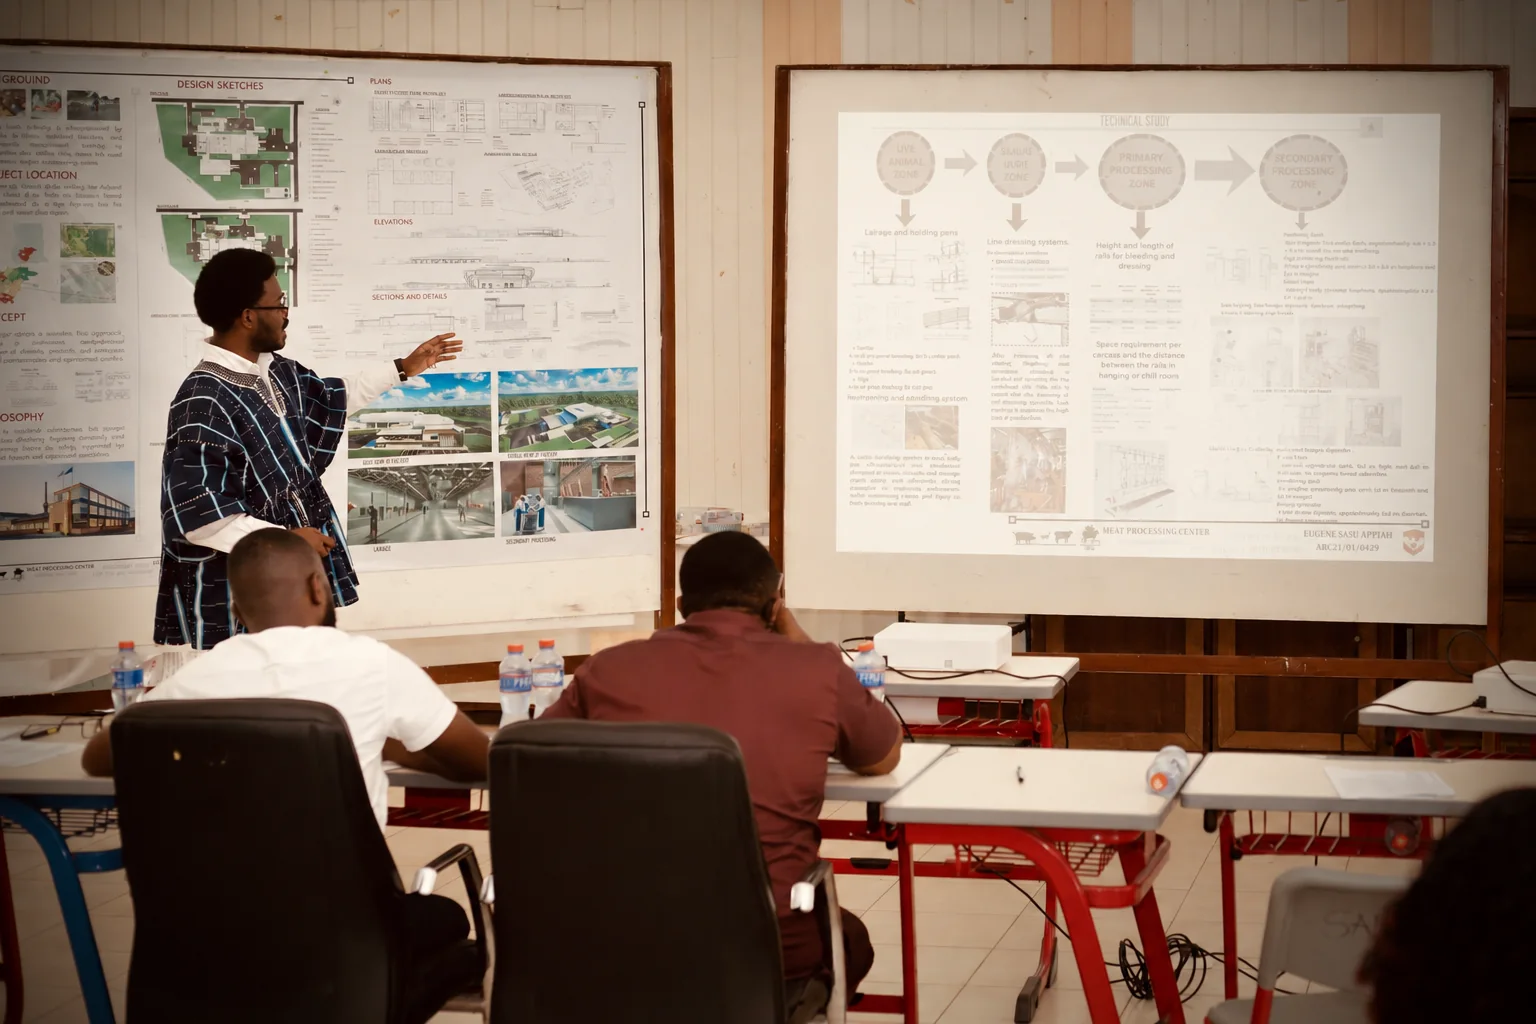
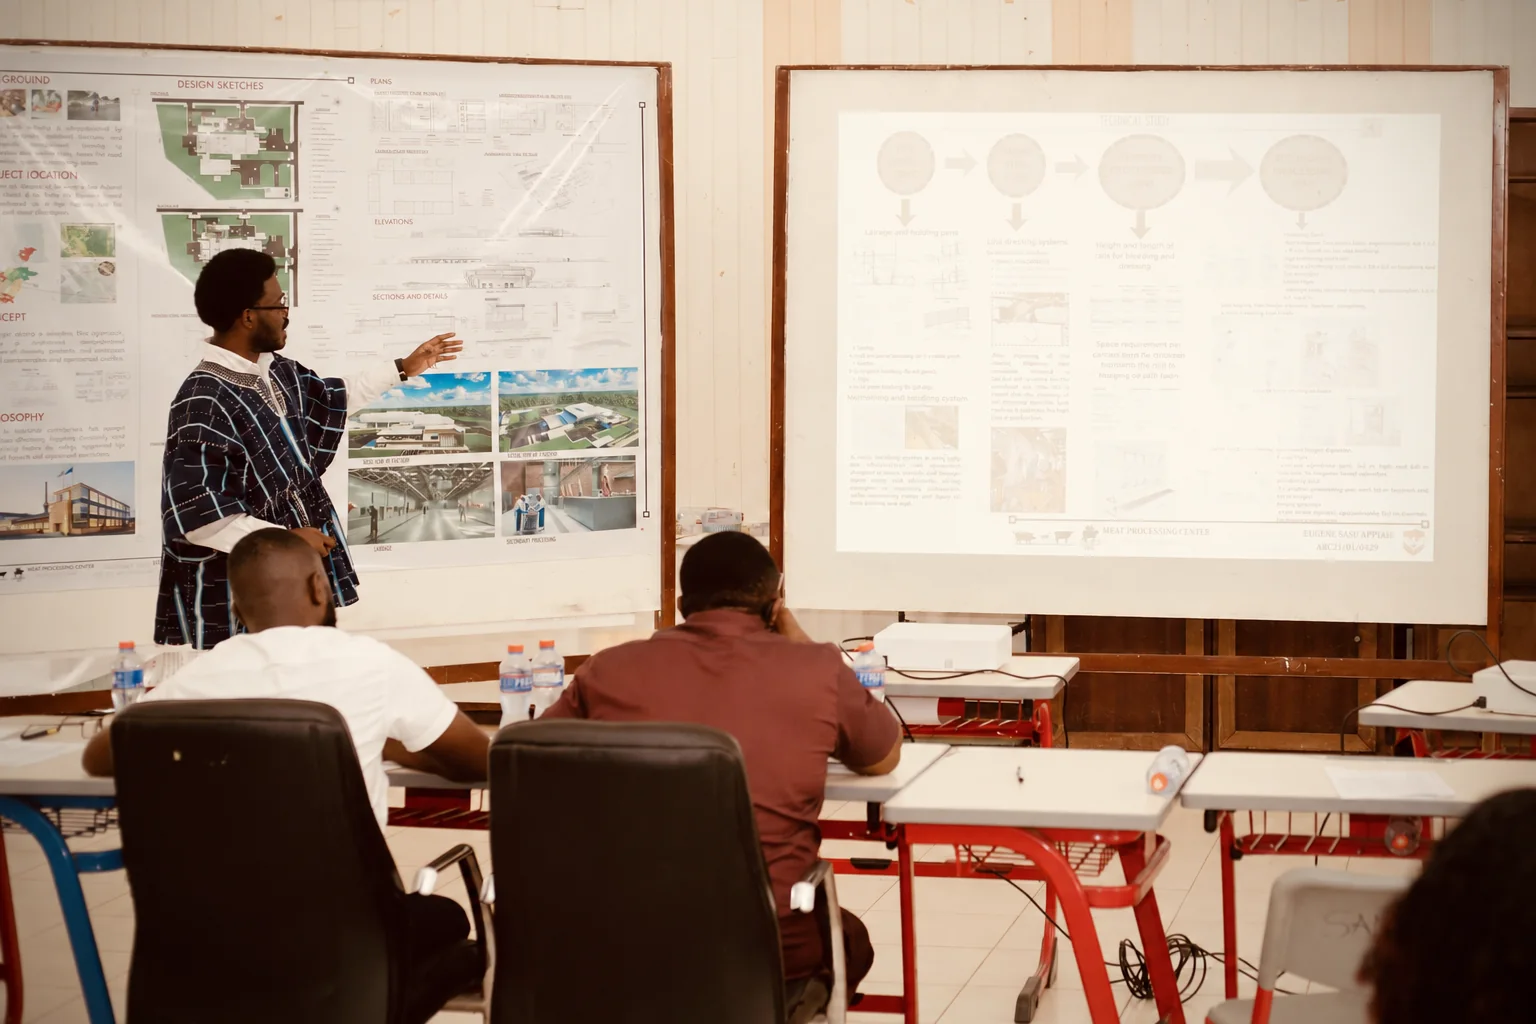
fix: soften mobile About image edges
Refine the vignette and remove the mobile border and shadow for a smoother edge transition.

diff --git a/src/components/landing-page/LandingPage.module.css b/src/components/landing-page/LandingPage.module.css
@@ -812,7 +812,18 @@
   .projectControls { right: 20px; bottom: 34px; }
   .philosophy { display: flex; min-height: auto; flex-direction: column; gap: 40px; align-items: stretch; padding: 64px 20px; }
   .philosophyBody { max-width: 390px; }
-  .philosophyImage { width: 100%; margin-top: 0; aspect-ratio: 4 / 3; align-self: center; border: 1px solid rgba(87,78,66,.2); border-radius: 16px; background-position: 44% center; box-shadow: 0 18px 42px rgba(42,34,24,.13); }
+  .philosophyImage {
+    width: 100%;
+    margin-top: 0;
+    aspect-ratio: 3 / 2;
+    align-self: center;
+    border: 0;
+    border-radius: 16px;
+    background-color: #2f261d;
+    background-image: url("/images/vf-about-vignette.webp");
+    background-position: center;
+    box-shadow: none;
+  }
   .signatureBlock { display: flex; width: 100%; flex-direction: column; gap: 0; align-items: center; margin-top: -4px; padding: 0; border: 0; border-radius: 0; background: transparent; }
   .signature { width: 180px; }
   .signatureIdentity { width: 100%; align-items: center; margin-top: 22px; text-align: center; }
